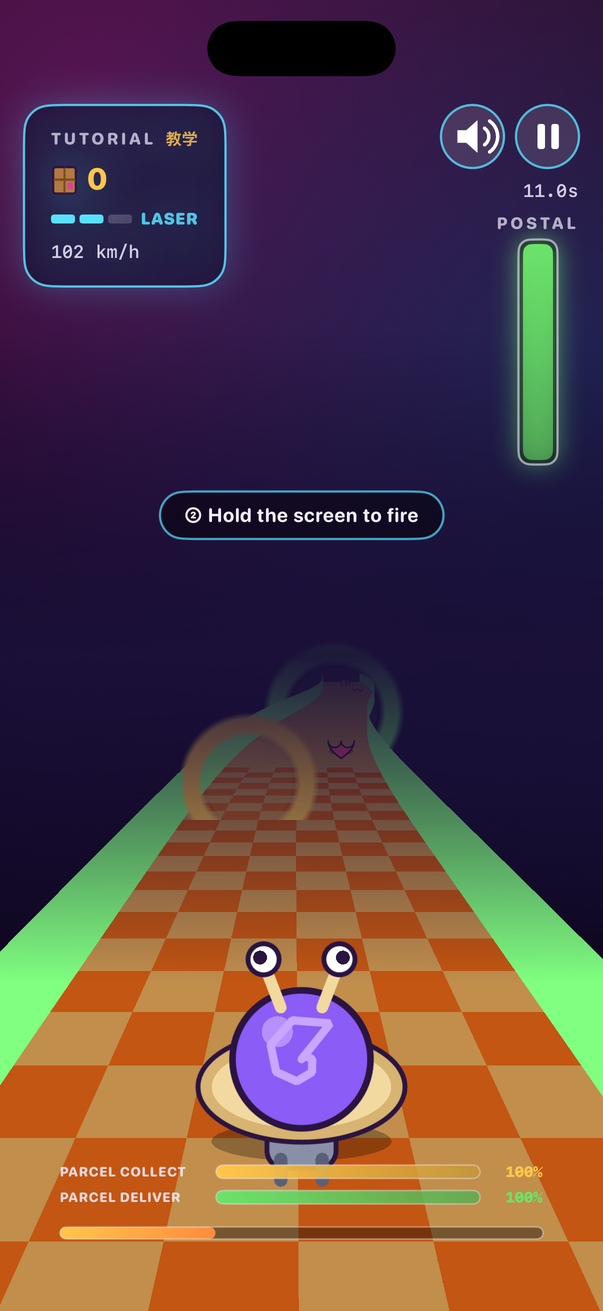
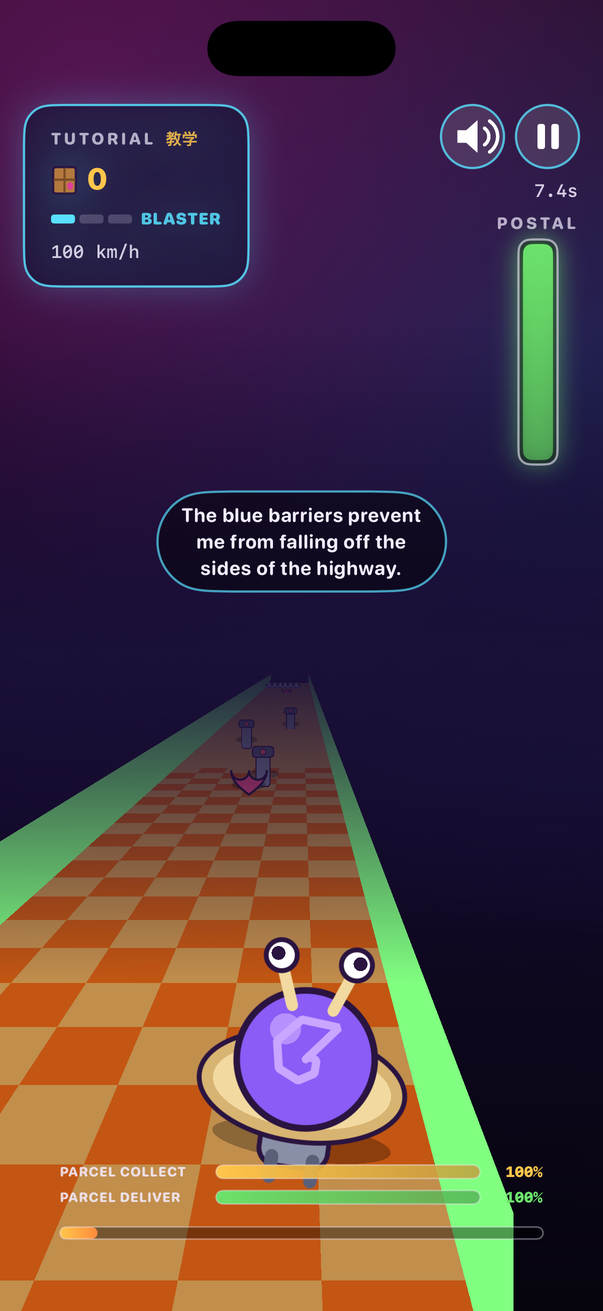
Show the tutorial's own scripted lines
`LEVELS/Tutorial.txt` is the one level file that scripts itself: each entry in
its `Segments Begin:` list carries a `Duration=` and a `Message=`, the line
Turbo speaks while the snail drives that piece. The remake read neither, and
showed five hints keyed to raw track progress, so the words had nothing to do
with the road under the snail.

`import_tracks.py` now reads the `Message=` of each pool entry, turns the
retail `>` into a line break and spells the inline icon glyphs out as words —
`{` packages, `^` salt, `[` enemies, `~` power-ups, `;` slow — with a glyph
dropped where the sentence already names it, so "Salt ^ burns me!" reads "Salt
burns me!" and "More ^ Salt!" reads "More salt!". The resulting lines land in
`TrackData.tutorialScript` in pool order, `RoadSegment.script` records which
entry a slice came from, and the scene shows the line belonging to the
furthest piece the snail has reached, so a piece carrying no line of its own
(`Tutorial 4.txt` is listed four times in a row) leaves the last one up. Only
that configuration text is used: the retail voice-over and the icon art drawn
beside the line are not bundled, so the line is shown as words.

Verified: clean build; the importer is deterministic; a live tutorial run
carries the 20 lines in the level file's order, and OCR of the screen reads
"The blue barriers prevent / me from falling off the / sides of the highway."
on the piece the file lists it for; arcade level 3 still runs with its HUD and
[…]

diff --git a/SnailMail/Sources/Game/GameModel.swift b/SnailMail/Sources/Game/GameModel.swift
@@ -157,6 +157,9 @@ final class RoadSegment {
     /// True on the piece that switches a jetpack back off (`JetPackOff.txt`),
     /// which the levels drop in after the gaps the jetpack is meant to clear.
     var jetpackOff = false
+    /// Index into `TrackData.tutorialScript` for the pool entry this slice came
+    /// from, or -1 where the run has no script — every level but the tutorial.
+    var script = -1
 
     init(index: Int) { self.index = index }
 }
@@ -321,6 +324,10 @@ struct RaceState: Equatable {
 
     var invincible: Bool = false
     var sheet = ScoreSheet()
+    /// The tutorial line on screen: the script entry of the furthest piece the
+    /// snail has reached (`TrackData.tutorialScript`), or empty when the run
+    /// has no script.
+    var tutorialMessage: String = ""
     var elapsed: Double = 0
     var phase: GamePhase = .ready
 
@@ -490,12 +497,14 @@ enum TrackBuilder {
             var angle: CGFloat?
             /// Whether this piece is a `JetPackOff` switch.
             var jetpackOff: Bool
+            /// Index into `TrackData.tutorialScript` for this entry, or -1.
+            var script: Int
         }
         var slices: [Slice] = []
         slices.reserveCapacity(max(64, config.rows + 32))
         var familyCount: [String: Int] = [:]
 
-        func appendSegment(_ entry: String) {
+        func appendSegment(_ entry: String, script scriptIndex: Int = -1) {
             let parts = entry.split(separator: "@", maxSplits: 1)
             let name = String(parts[0])
             let angle = parts.count > 1 ? CGFloat(Double(parts[1]) ?? 0) : nil
@@ -523,7 +532,7 @@ enum TrackBuilder {
                 slices.append(Slice(cells: row, family: family,
                                     along: CGFloat(n) / span, step: 1 / span,
                                     flip: flip, angle: angle,
-                                    jetpackOff: jetpackOff))
+                                    jetpackOff: jetpackOff, script: scriptIndex))
             }
         }
 
@@ -551,7 +560,12 @@ enum TrackBuilder {
             } else {
                 var n = 0
                 while (n < minDraws || slices.count < budget - 8) && n < 4000 {
-                    appendSegment(pool[n % pool.count])
+                    // The tutorial scripts a line per pool entry, so it needs
+                    // to know which entry a piece came from. Its pool is long
+                    // enough (1140 rows against a 700 budget) to be laid down
+                    // exactly once, in order, which is what the script wants.
+                    appendSegment(pool[n % pool.count],
+                                  script: key == "tutorial" ? n : -1)
                     n += 1
                 }
             }
@@ -645,6 +659,7 @@ enum TrackBuilder {
                 && row.allSatisfy { $0 == " " || $0 == "@" || $0 == "M" }
             seg.airborne = airborne
             seg.jetpackOff = slices[i].jetpackOff
+            seg.script = slices[i].script
 
             /// Map a grid column to a position across the road.
             func across(_ col: Int) -> CGFloat {

diff --git a/SnailMail/Sources/Game/GameScene.swift b/SnailMail/Sources/Game/GameScene.swift
@@ -72,6 +72,9 @@ final class GameScene: SKScene {
     private var hopPower: CGFloat = 0
     /// Left while the jetpack carries the snail over everything on the road.
     private var jetpackUntil: CGFloat = 0
+    /// How far the snail has got through `TrackData.tutorialScript`, or -1
+    /// while it is still on the pieces before the first scripted line.
+    private var tutorialStep = -1
     /// World z of the `JetPackOff` piece that ends the current jetpack flight,
     /// or 0 while it is a plain timed flight. The levels always drop the
     /// switch-off piece just past the gaps the jetpack is meant to clear, so
@@ -362,6 +365,8 @@ final class GameScene: SKScene {
         gapArc = 0
         jetpackUntil = 0
         jetpackOffZ = 0
+        tutorialStep = -1
+        state.tutorialMessage = ""
         fireCooldown = 0
         clearBullets()
         snail.setScale(snailBaseScale)
@@ -437,6 +442,7 @@ final class GameScene: SKScene {
         positionZ += move
         state.distance = Double(positionZ)
         state.speed = Double(currentSpeed)
+        updateTutorialScript()
 
         if positionZ >= trackLength {
             positionZ = trackLength
@@ -800,6 +806,21 @@ final class GameScene: SKScene {
     }
 
     // MARK: - Falling into a hole
+
+    /// Show the tutorial's scripted line for the furthest piece it has reached.
+    /// The level file lists one line per segment in the order it lays them, so
+    /// the snail walking the track walks the script: a piece that carries no
+    /// line of its own (`Tutorial 4.txt` appears twice in a row) leaves the
+    /// last line up until the next one arrives.
+    private func updateTutorialScript() {
+        let script = TrackData.tutorialScript
+        guard mode == .tutorial, !script.isEmpty, !segments.isEmpty else { return }
+        let step = segments[segmentIndex(at: positionZ + playerZ)].script
+        if step >= 0 && step < script.count { tutorialStep = max(tutorialStep, step) }
+        guard tutorialStep >= 0 else { return }
+        let line = script[tutorialStep]
+        if !line.isEmpty { state.tutorialMessage = line }
+    }
 
     /// The jump pieces leave the road out for a run of blank rows. The snail
     /// takes that void as a ramp and arcs across it, the same screen-space hop

diff --git a/SnailMail/Sources/Game/TrackData.swift b/SnailMail/Sources/Game/TrackData.swift
@@ -206,6 +206,38 @@ enum TrackData {
         "jetpackoff.txt",
     ]
 
+    /// The tutorial's scripted lines, in the order its level file
+    /// lists them.  Entry `n` belongs to the piece the pool lays at
+    /// index `n`; an empty string leaves the previous line on
+    /// screen.  The retail build pairs each line with a voice-over
+    /// (`Voice/tut*.ogg`) and inline icon art, neither of which is
+    /// bundled here, so the icons are spelled out as words.
+    static let tutorialScript: [String] = [
+        "Hi! I'm Turbo the Snail.\nSteer with the mouse!",
+        "The blue barriers prevent\nme from falling off the\nsides of the highway.",
+        "I work for Snail Mail. Help\nme collect Packages.",
+        "Asteroids slow me down.\nHold the Mouse Button\nto shoot",
+        "Don't let me fall through\nthe holes in the highway!",
+        "Salt burns me! I can't\nshoot salt I have to avoid it!",
+        "More salt! If I take\ntoo much damage I go postal!",
+        "Hearts restore my Postal\nMeter located on the right.",
+        "Look Out! Evil enemies try to\nknock me off the highway",
+        "I get better weapons\nwhen I go through power-ups!",
+        "",
+        "Lasers or Rockets,\nI can destroy enemies",
+        "",
+        "If I have Lasers shoot the enemies",
+        "Steer clear of slow rings\nThey slow me down!",
+        "Yellow Rings they\nblow up my enemies!",
+        "I can't blow up Turrets\nso guide me around them!",
+        "If I grab enough power-ups\nI will become invincible!",
+        "",
+        "",
+        "",
+        "I can plow through enemies\nwhen I'm invincible.",
+        "Excellent. Time to\nhit the Post Office.",
+    ]
+
     /// Ordered segment list for each level.  Level keys are `arcade0`-
     /// `arcade50`, plus `tutorial` and `challenge`.  Each entry names a
     /// grid the same way `grid` is keyed, and may carry an `@<angle>`

diff --git a/SnailMail/Sources/UI/HUDView.swift b/SnailMail/Sources/UI/HUDView.swift
@@ -60,11 +60,13 @@ struct HUDView: View {
             .padding(.horizontal, 16)
             .padding(.top, 8)
 
-            if mode == .tutorial, state.phase == .running {
-                Text(tutorialHint)
+            if mode == .tutorial, state.phase == .running,
+               !state.tutorialMessage.isEmpty {
+                Text(state.tutorialMessage)
                     .font(.system(size: 13, weight: .bold, design: .rounded))
                     .foregroundStyle(Palette.ink)
                     .multilineTextAlignment(.center)
+                    .lineSpacing(2)
                     .padding(.horizontal, 16)
                     .padding(.vertical, 8)
                     .background(Capsule().fill(Color.black.opacity(0.45)))
@@ -96,15 +98,6 @@ struct HUDView: View {
         .animation(.easeInOut(duration: 0.2), value: state.phase)
     }
 
-    private var tutorialHint: String {
-        switch state.progress {
-        case ..<0.18: "① Drag left / right to steer"
-        case ..<0.4: "② Hold the screen to fire"
-        case ..<0.62: "③ Fly through parcels to collect"
-        case ..<0.85: "④ Grab rings to upgrade your weapon"
-        default: "⑤ Reach the post office to deliver"
-        }
-    }
 }
 
 /// Vertical postal meter: a neon tube that fills from the bottom, tinted by how

diff --git a/tools/import_tracks.py b/tools/import_tracks.py
@@ -59,9 +59,33 @@ RING_GLYPHS = set("><{}()R")
 RING = {"powerup": "+", "slow": "~", "explode": ">", "explosive": ">",
         "normal": "!", "none": "o"}
 
+# The tutorial's `Message=` lines sprinkle the same inline icon glyphs the
+# grids use, standing in for the picture the retail HUD drew beside the text.
+# None of that artwork is bundled here, so each glyph becomes the word it
+# depicts; the icon is dropped where the sentence already names it (so
+# "Salt ^ burns me!" reads "Salt burns me!").
+TUTORIAL_GLYPHS = {"}": "", "{": "packages", "]": "", "_": "hearts",
+                   "^": "salt", "[": "enemies", ";": "slow", "~": "power-ups"}
+
 
 def deobfuscate(data):
     return bytes(b ^ KEY[i % 256] for i, b in enumerate(data))
+
+
+def tutorial_message(raw):
+    """Turn a retail `Message=` string into the text the remake shows.
+
+    `>` is the retail line break, and the icon glyphs become words (see
+    `TUTORIAL_GLYPHS`). A glyph sitting next to the word it depicts — the `^`
+    in "Salt ^ burns me!" — would then repeat that word, so a doubled word
+    collapses back to one and the spacing is tidied for a sentence.
+    """
+    text = "".join("\n" if ch == ">" else TUTORIAL_GLYPHS.get(ch, ch)
+                   for ch in raw)
+    text = re.sub(r"\b([A-Za-z]+)( +)\1\b", r"\1", text, flags=re.I)
+    text = re.sub(r"[ \t]+", " ", text)
+    text = re.sub(r"\s+([.!?,])", r"\1", text)
+    return "\n".join(line.strip() for line in text.split("\n")).strip()
 
 
 def load_archive(path):
@@ -110,7 +134,7 @@ def by_folder(files, folder, suffix):
 
 def parse_level(txt):
     txt = re.sub(r"/\*.*?\*/", "", txt, flags=re.S)
-    segs = []
+    segs, script = [], []
     body = re.search(r"Segments Begin:(.*?)Segments End:", txt, flags=re.S)
     if body:
         for line in body.group(1).splitlines():
@@ -122,11 +146,16 @@ def parse_level(txt):
                 name = os.path.basename(m.group(1))
                 attrs = dict(re.findall(r"(\w+)=(-?[\d.]+)", m.group(2)))
                 segs.append((name, attrs))
+                # The tutorial scripts an on-screen line per pool entry; every
+                # other level leaves the list empty.
+                msg = re.search(r'Message="([^"]*)"', m.group(2))
+                script.append(tutorial_message(msg.group(1)) if msg else "")
     first = re.search(r"First:.*?\n\s*(.*?\.txt)", txt, flags=re.S)
     last = re.search(r"Last:.*?\n\s*(.*?\.txt)", txt, flags=re.S)
     return (os.path.basename(first.group(1)) if first else "Start.txt",
             segs,
-            os.path.basename(last.group(1)) if last else "Finish.txt")
+            os.path.basename(last.group(1)) if last else "Finish.txt",
+            script)
 
 
 def parse_segment(txt):
@@ -160,7 +189,8 @@ def parse_segment(txt):
 
 
 def swift_string(s):
-    return '"' + s.replace("\\", "\\\\").replace('"', '\\"') + '"'
+    return ('"' + s.replace("\\", "\\\\").replace('"', '\\"')
+            .replace("\n", "\\n") + '"')
 
 
 def main():
@@ -175,7 +205,7 @@ def main():
     segments = by_folder(files, "segments", ".txt")
 
     # Level routes: arcade0..arcade50, tutorial and challenge.
-    routes, need, random_keys = {}, set(), set()
+    routes, need, random_keys, scripts = {}, set(), set(), {}
     for key, name in ([(f"arcade{i}", f"arcade{i:03d}.txt") for i in range(51)]
                       + [("tutorial", "tutorial.txt"), ("challenge", "challenge000.txt")]):
         if name not in levels:
@@ -183,8 +213,9 @@ def main():
             continue
         if re.search(r"Random:\s*yes", levels[name], re.I):
             random_keys.add(key)
-        first, segs, last = parse_level(levels[name])
+        first, segs, last, script = parse_level(levels[name])
         routes[key] = (first, segs, last)
+        scripts[key] = script
         need.update([first.lower(), last.lower()])
         need.update(n.lower() for n, _ in segs)
 
@@ -250,6 +281,15 @@ def main():
               "    /// as the gaps it has to clear instead of a fixed spell.",
               "    static let jetpackOff: Set<String> = ["]
     lines += [f"        {swift_string(k)}," for k in sorted(jetpacks_off)]
+    lines += ["    ]", "",
+              "    /// The tutorial's scripted lines, in the order its level file",
+              "    /// lists them.  Entry `n` belongs to the piece the pool lays at",
+              "    /// index `n`; an empty string leaves the previous line on",
+              "    /// screen.  The retail build pairs each line with a voice-over",
+              "    /// (`Voice/tut*.ogg`) and inline icon art, neither of which is",
+              "    /// bundled here, so the icons are spelled out as words.",
+              "    static let tutorialScript: [String] = ["]
+    lines += [f"        {swift_string(t)}," for t in scripts.get("tutorial", [])]
     lines += ["    ]", "",
               "    /// Ordered segment list for each level.  Level keys are `arcade0`-",
               "    /// `arcade50`, plus `tutorial` and `challenge`.  Each entry names a",
